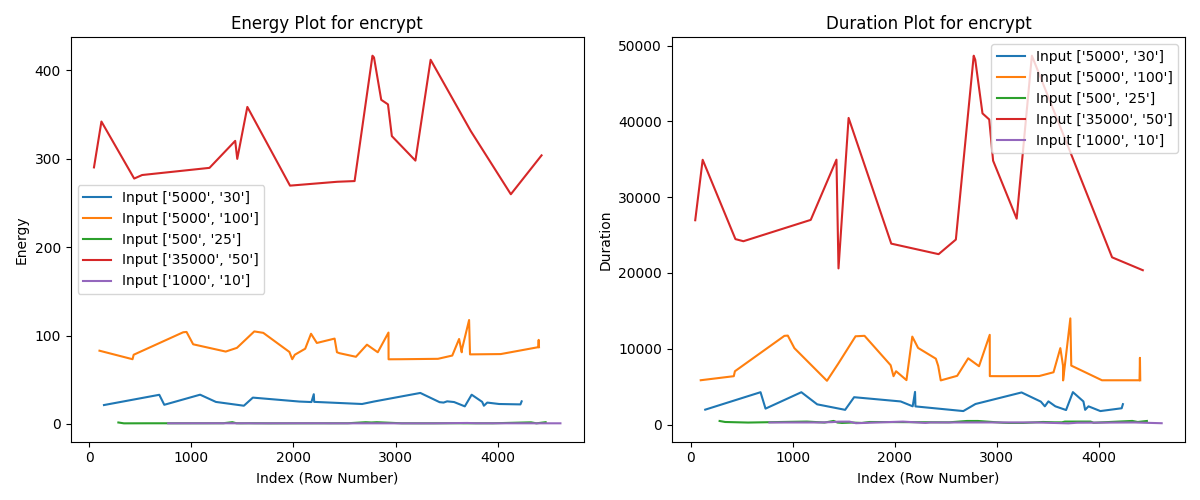
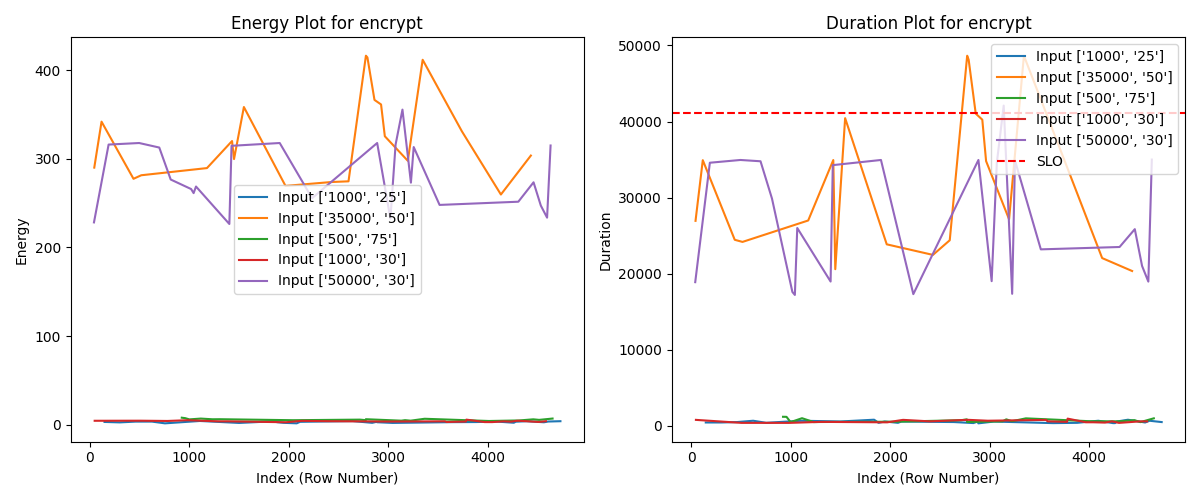
update analysis code to include slo line

diff --git a/src/model_analysis/analysis.py b/src/model_analysis/analysis.py
@@ -20,6 +20,14 @@ function_dfs = {
     'encrypt': df_encrypt
 }
 
+function_slos = {
+    'floatmatmult': 76132.2,
+    'linpack': 45008.67293666026,
+    'imageprocess': 5491.8,
+    'videoprocess': 20592.6,
+    'encrypt': 41125.799999999996
+}
+
 # get unique set of "function_input" column values for each df
 unique_inputs = {}
 for key in function_dfs:
@@ -40,8 +48,9 @@ for func_type, df in function_dfs.items():
     # Plot for Energy
     plt.subplot(1, 2, 1)  # 1 row, 2 columns, 1st subplot
     for input_value in sampled_inputs[func_type]:
+        truncated_input = (input_value[:15] + '...') if len(input_value) > 15 else input_value
         subset = df[df['function_input'] == input_value]  # Adjust for actual matching
-        plt.plot(subset.index, subset['energy'], label=f'Input {input_value}')  # Using DataFrame index
+        plt.plot(subset.index, subset['energy'], label=f'Input {truncated_input}')  # Using DataFrame index
     plt.title(f'Energy Plot for {func_type}')
     plt.xlabel('Index (Row Number)')
     plt.ylabel('Energy')
@@ -50,8 +59,10 @@ for func_type, df in function_dfs.items():
     # Plot for Duration
     plt.subplot(1, 2, 2)  # 1 row, 2 columns, 2nd subplot
     for input_value in sampled_inputs[func_type]:
+        truncated_input = (input_value[:15] + '...') if len(input_value) > 15 else input_value
         subset = df[df['function_input'] == input_value]  # Adjust for actual matching
-        plt.plot(subset.index, subset['duration'], label=f'Input {input_value}')  # Using DataFrame index
+        plt.plot(subset.index, subset['duration'], label=f'Input {truncated_input}')  # Using DataFrame index
+    plt.axhline(y=function_slos[func_type], color='r', linestyle='--', label='SLO')  # SLO line
     plt.title(f'Duration Plot for {func_type}')
     plt.xlabel('Index (Row Number)')
     plt.ylabel('Duration')
